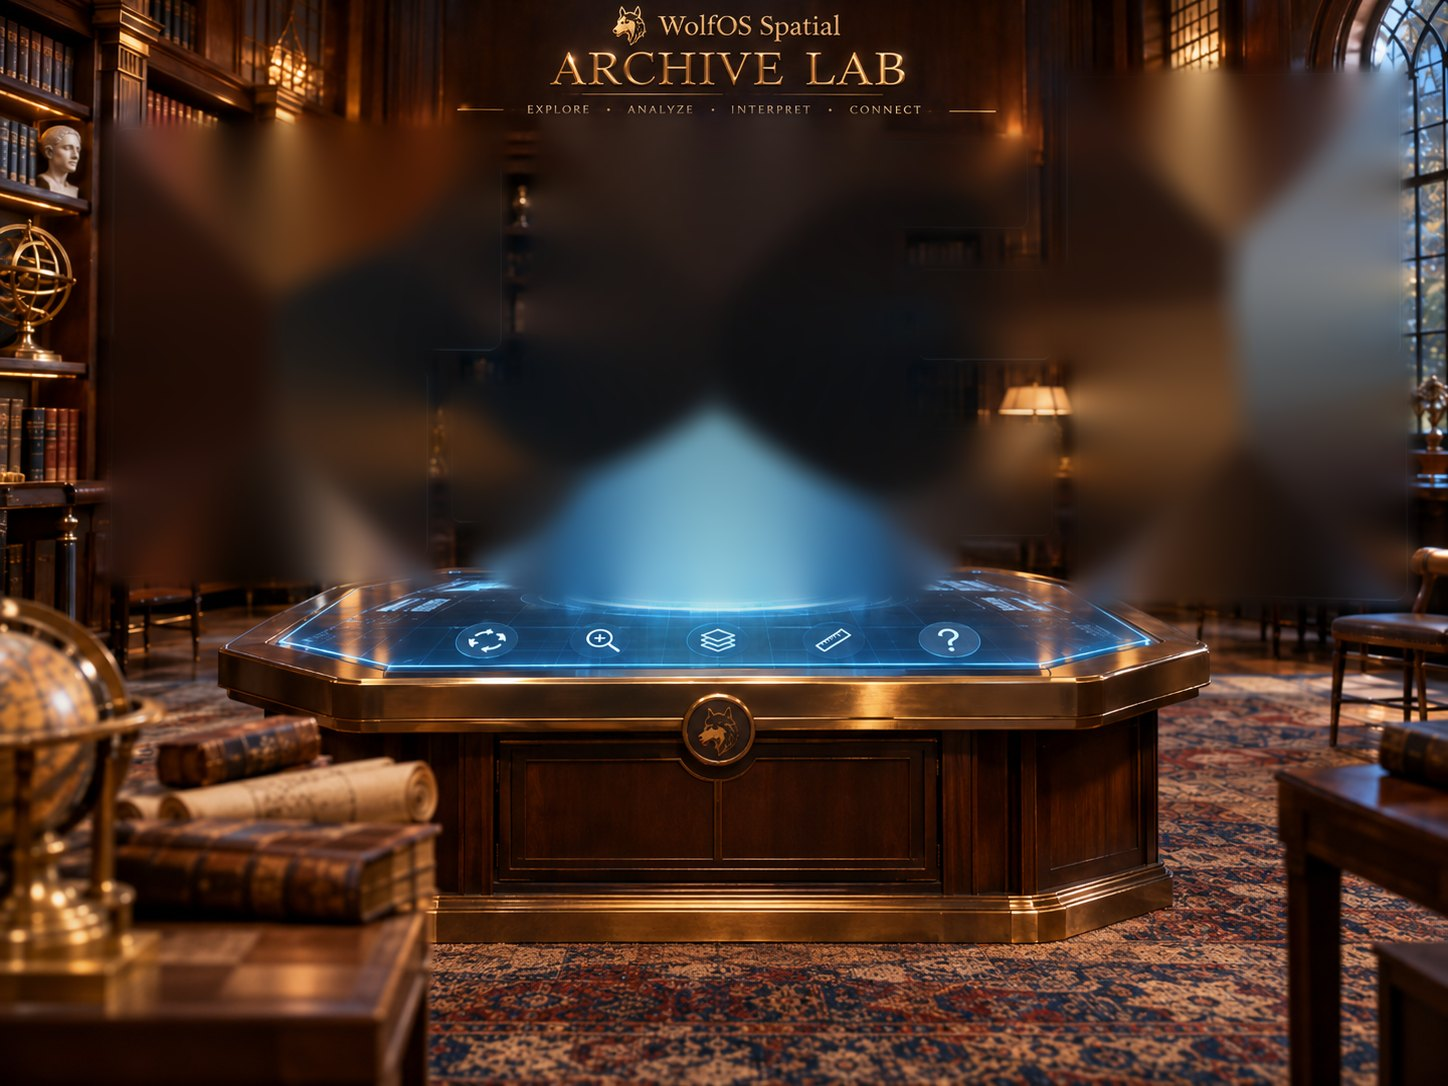
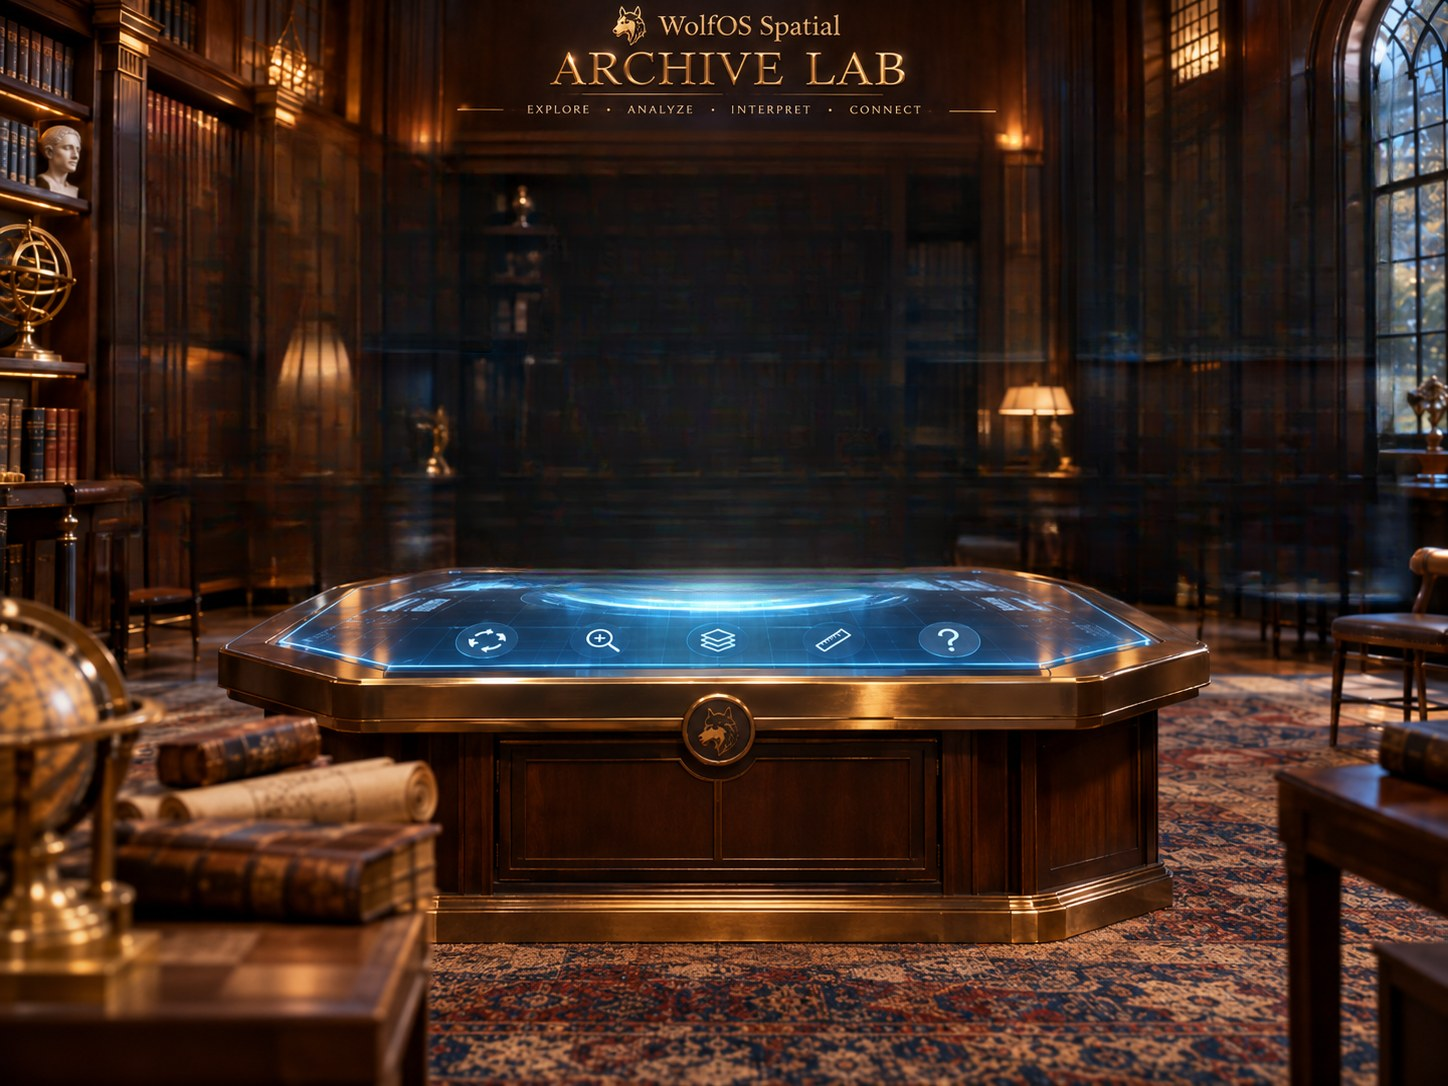
Sharp rebuilt room behind the artifact; crisp light beam and glowing table rings like the original graphic
Claude-Session: https://claude.ai/code/session_01WmiZZA7jwr2YKYoXZXng2Z

Changed region(s): [[0.0622, 0.0608, 0.9945, 0.5773], [0.5283, 0.1519, 0.5594, 0.1823], [0.3419, 0.2735, 0.3729, 0.3039]]

diff --git a/tut-mask/index.html b/tut-mask/index.html
@@ -230,7 +230,7 @@ const HOME = new THREE.Vector3(0, .74, 5.3);
 // the hologram beam the mask stands in
 const beamMat = new THREE.ShaderMaterial({ transparent:true, depthWrite:false, blending:THREE.AdditiveBlending, side:THREE.DoubleSide, uniforms:{ uT:{ value:0 }, uA:{ value:.6 } },
   vertexShader:'varying vec2 vU;void main(){vU=uv;gl_Position=projectionMatrix*modelViewMatrix*vec4(position,1.);}',
-  fragmentShader:'varying vec2 vU;uniform float uT,uA;void main(){float a=pow(1.-vU.y,1.8)*uA;a*=.7+.3*sin(vU.y*70.-uT*3.);gl_FragColor=vec4(.42,.76,1.,a*.32);}' });
+  fragmentShader:'varying vec2 vU;uniform float uT,uA;void main(){float base=pow(1.-vU.y,2.2);float st=pow(abs(sin(vU.x*3.14159*38.+sin(vU.x*25.)*1.5)),18.)*.9+pow(abs(sin(vU.x*3.14159*11.-uT*.15)),40.)*.8;float a=base*uA*(.35+st*(1.-vU.y*.6));a*=.9+.1*sin(vU.y*60.-uT*2.);gl_FragColor=vec4(.45,.8,1.,a*.5);}' });
 const beam = new THREE.Mesh(new THREE.CylinderGeometry(.5, .78, 1.25, 48, 1, true), beamMat); beam.position.y = .62; scene.add(beam);
 // a glowing disc for phones, where his painted desk is not behind the mask
 function ringTex() { const c = document.createElement('canvas'); c.width = c.height = 512; const g = c.getContext('2d'), m = 256;
@@ -239,6 +239,11 @@ function ringTex() { const c = document.createElement('canvas'); c.width = c.hei
   const t = new THREE.CanvasTexture(c); t.colorSpace = THREE.SRGBColorSpace; return t; }
 const disc = new THREE.Mesh(new THREE.CircleGeometry(.85, 64), new THREE.MeshBasicMaterial({ map:ringTex(), transparent:true, blending:THREE.AdditiveBlending, depthWrite:false }));
 disc.rotation.x = -Math.PI / 2; disc.position.y = .003; scene.add(disc);
+const rings = [[.34, .018, 1, .9], [.5, .012, 1, .7], [.66, .01, .85, .55], [.8, .007, .6, .4]].map(([r, w, arc, op], i) => {
+  const m = new THREE.Mesh(new THREE.RingGeometry(r, r + w, 128, 1, 0, Math.PI * 2 * arc), new THREE.MeshBasicMaterial({ color:'#8fd4ff', transparent:true, opacity:op, blending:THREE.AdditiveBlending, depthWrite:false, side:THREE.DoubleSide }));
+  m.rotation.x = -Math.PI / 2; m.position.y = .004 + i * .002; m.userData.spd = (i % 2 ? -1 : 1) * (.12 + i * .05); scene.add(m); return m; });
+const pool = new THREE.Mesh(new THREE.CircleGeometry(.62, 64), new THREE.MeshBasicMaterial({ map:ringTex(), color:'#bfe6ff', transparent:true, opacity:.9, blending:THREE.AdditiveBlending, depthWrite:false }));
+pool.rotation.x = -Math.PI / 2; pool.position.y = .002; scene.add(pool);
 let mask = null, baseY = 0, rise = 0, spin = false, zoomed = false, ruler = null, anchors = [], cur = -1, fly = null;
 const clip = new THREE.Plane(new THREE.Vector3(0, 1, 0), 0);
 function home() { cam.position.copy(HOME); controls.target.set(0, .5, 0); controls.update(); }
@@ -325,7 +330,7 @@ $('qs').querySelectorAll('li').forEach(li => li.onclick = () => show('Think Like
 const ease = t => t < .5 ? 2 * t * t : 1 - (-2 * t + 2) ** 2 / 2, v3 = new THREE.Vector3(), cp = new THREE.Vector3();
 let last = performance.now();
 function frame(now) {
-  const dt = Math.min(.05, (now - last) / 1000); last = now; beamMat.uniforms.uT.value = now / 1000; disc.rotation.z += dt * .15;
+  const dt = Math.min(.05, (now - last) / 1000); last = now; beamMat.uniforms.uT.value = now / 1000; disc.rotation.z += dt * .15; if (!reduce) rings.forEach(r => r.rotation.z += dt * r.userData.spd);
   if (mask) { if (rise < 1) { rise = Math.min(1, rise + dt / 2.6); const e = ease(rise); mask.position.y = baseY - (1 - e);
       mask.traverse(o => { if (o.isMesh) o.material.emissiveIntensity = (1 - e) * .9; }); beamMat.uniforms.uA.value = .6 + (1 - e) * .8; }
     else mask.position.y = baseY; }
